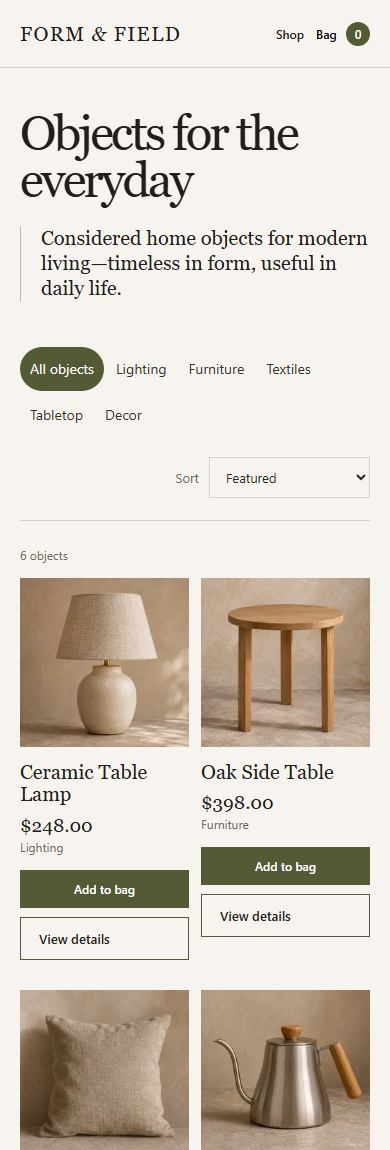
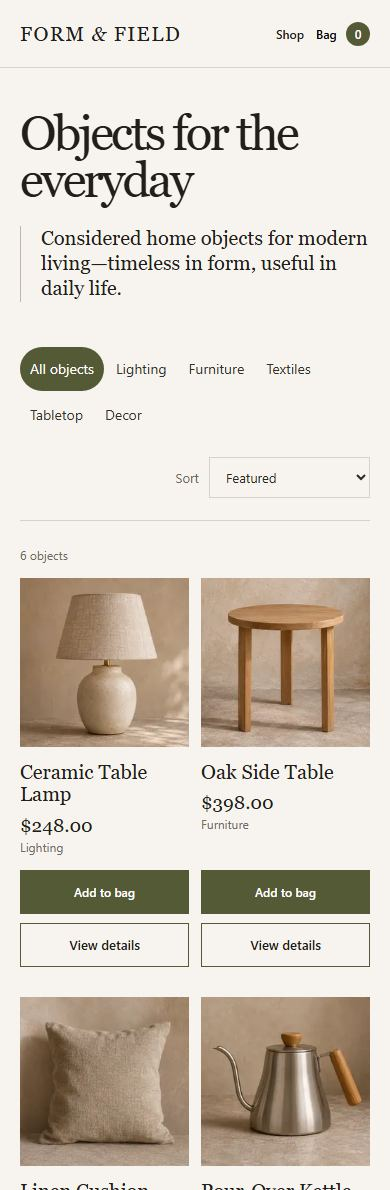
Polish the prototype and refresh browser evidence

diff --git a/task-05-ecommerce-app/styles.css b/task-05-ecommerce-app/styles.css
@@ -17,3 +17,17 @@ button:disabled { opacity: .45; cursor: default; }
   html { scroll-behavior: auto; }
   *, *::before, *::after { transition: none !important; }
 }
+
+.grid > article { display: flex; flex-direction: column; min-width: 0; }
+.product-meta { flex: 1; }
+.product-actions { align-items: stretch; }
+@media (max-width: 600px) {
+  .product-actions > :is(button, a) {
+    display: grid;
+    place-items: center;
+    min-height: 44px;
+    padding: 8px 5px;
+    text-align: center;
+    line-height: 1.2;
+  }
+}

diff --git a/task-05-ecommerce-app/EVALUATION.md b/task-05-ecommerce-app/EVALUATION.md
@@ -77,3 +77,9 @@ The screenshots below were recaptured from the revised prototype. Earlier eviden
 ## Product imagery refresh · 22 November 2026
 
 The six fictional products use generated photo-style imagery with small and full-size WebP sources. New captures show the [desktop catalog](screenshots/05-catalog.jpg), [phone catalog](screenshots/05-catalog-mobile.jpg), [product detail](screenshots/05-detail.jpg) and [bag](screenshots/05-bag.jpg). Browser checks verified image loading, the catalog photo opening the correct product, the bag thumbnail and $210 sample total, and completion of the sample checkout on the phone layout. Participant testing is still pending.
+
+## Interface polish · 22 November 2026
+
+Catalog cards align their actions when product titles wrap on small screens. At 320 px and 390 px, the first row stayed aligned and the actions met the 44 px tap target.
+
+- [05-catalog-mobile.jpg](screenshots/05-catalog-mobile.jpg)
